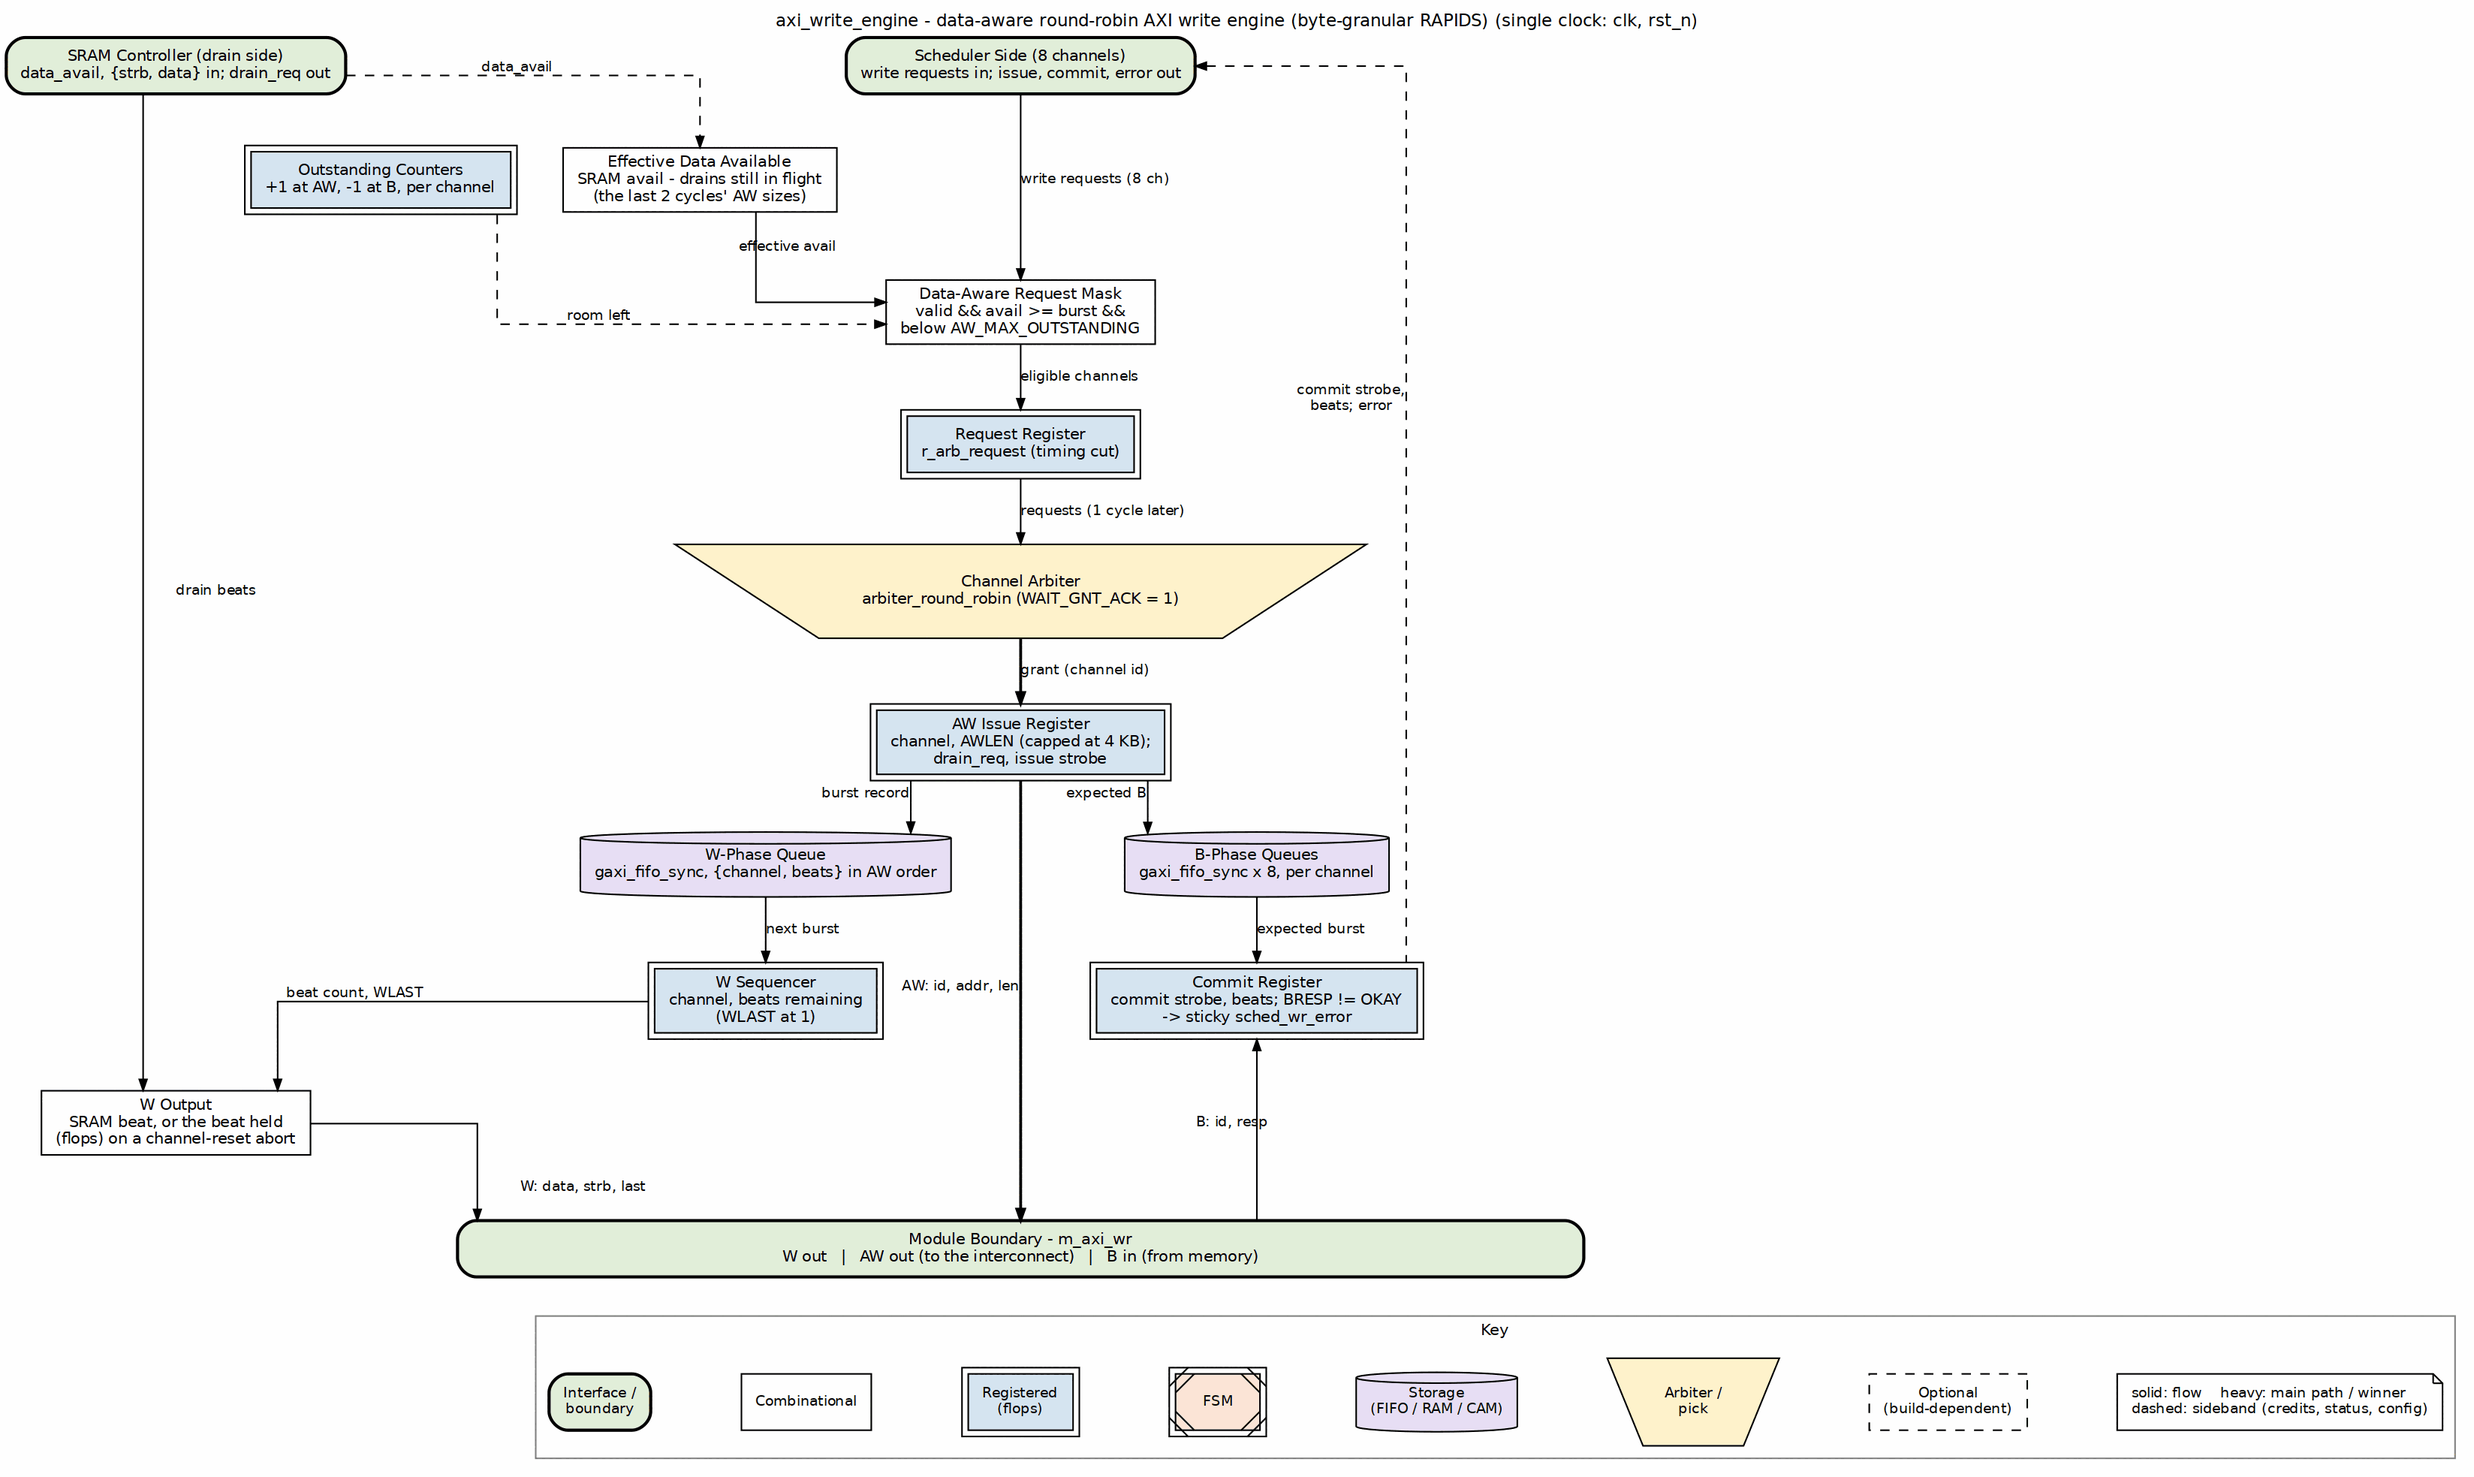
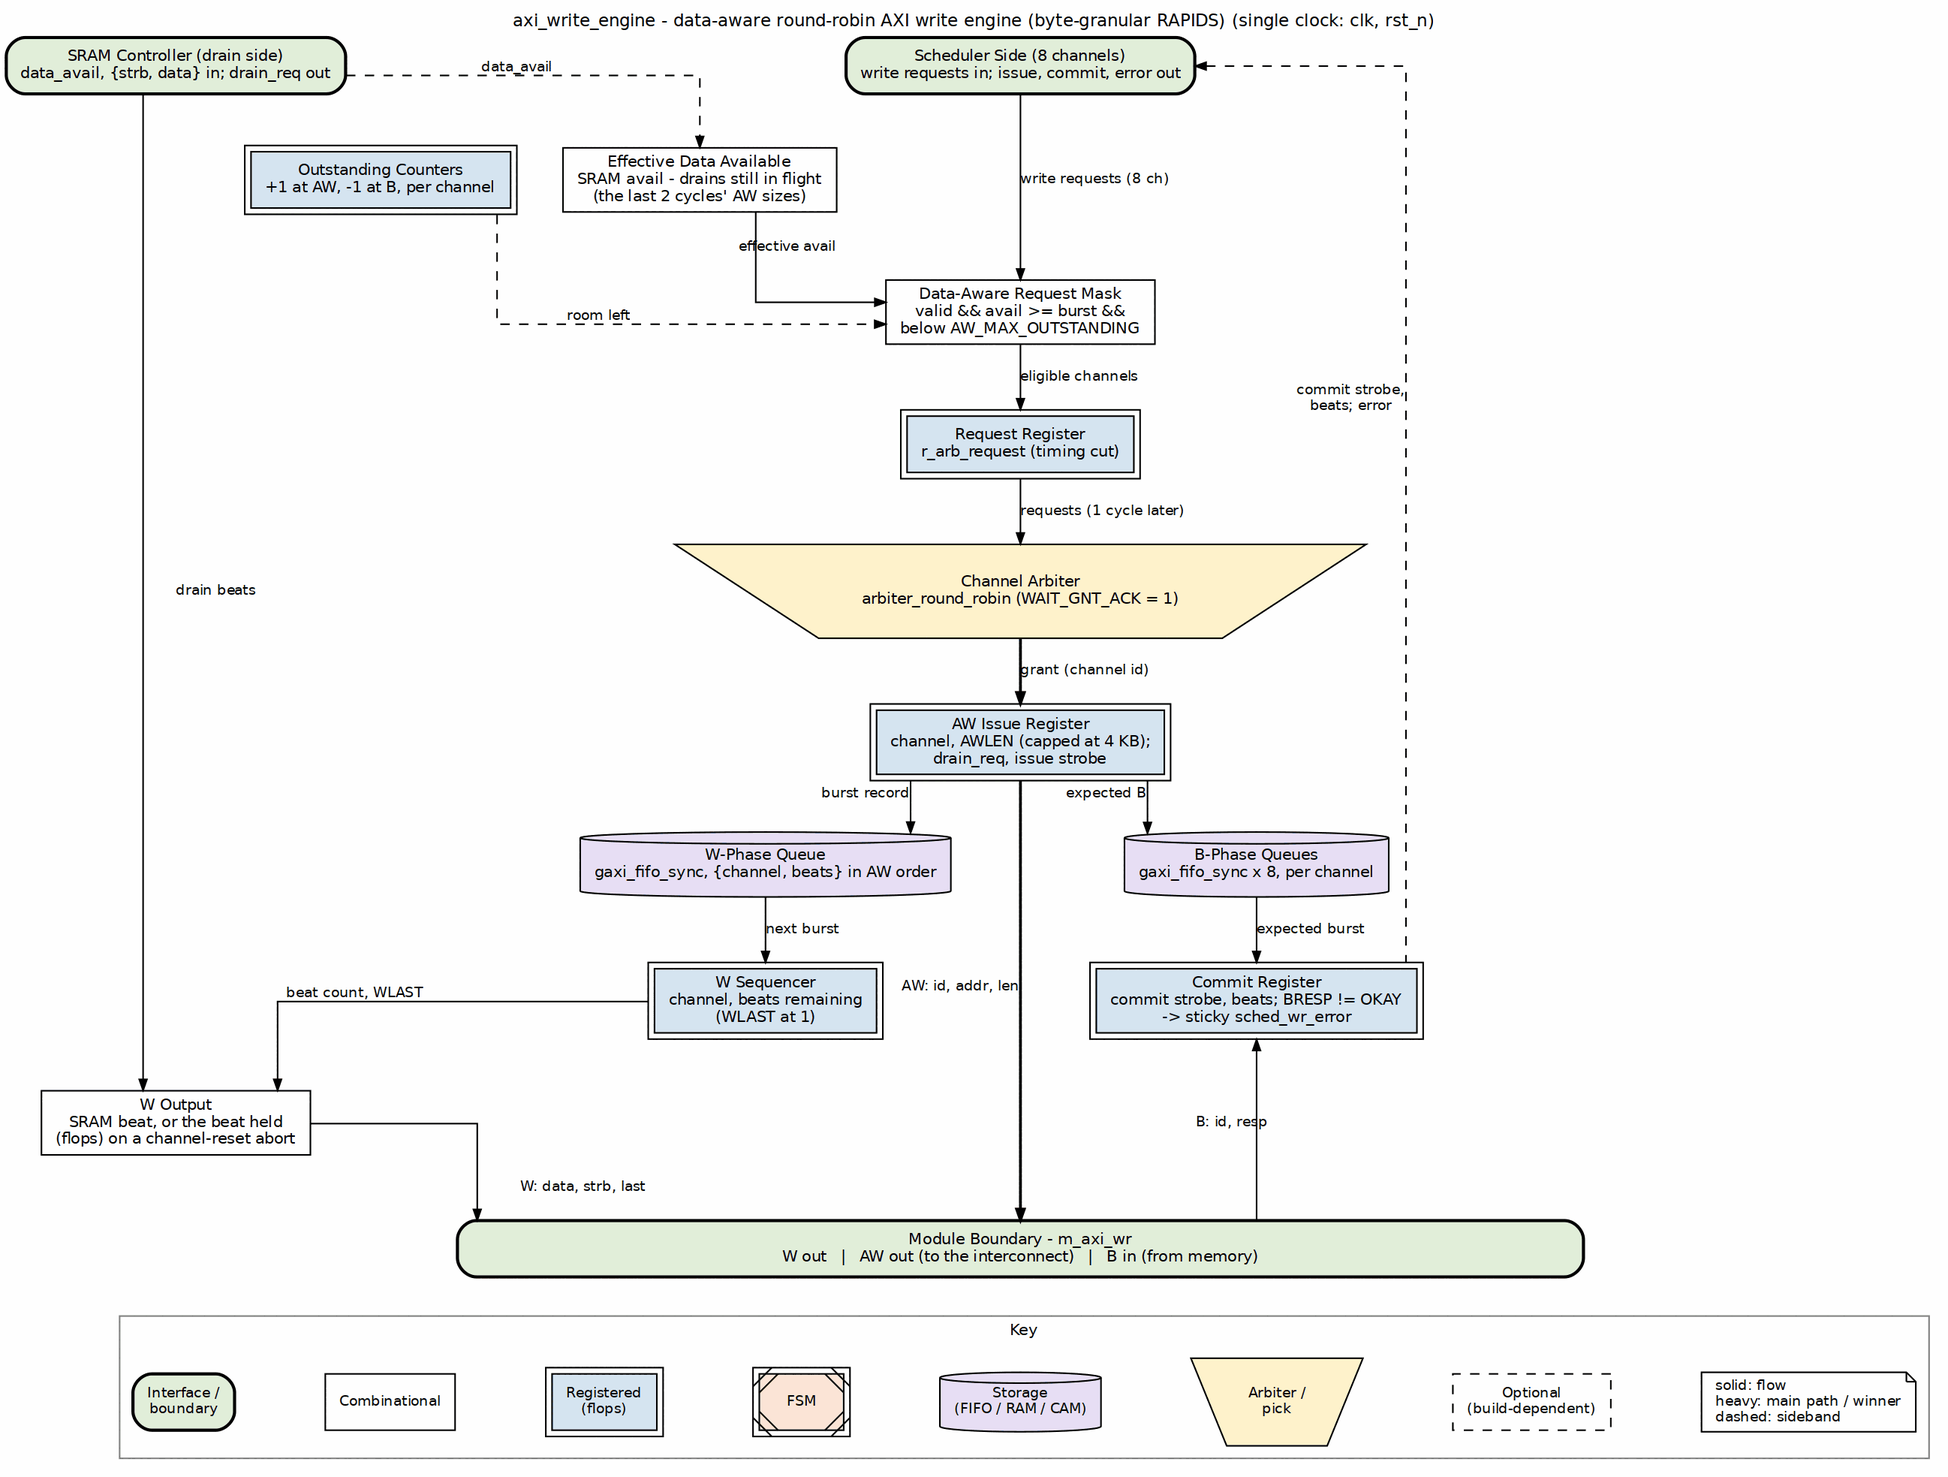
docs(handbook, rapids): center the diagram key under the drawing
Owner: keep the key centered at the bottom, no white space on one side.
The key row is anchored by one invisible weighted edge from the bar to its
middle sample (Storage), and the edge note is three short lines. Recipe in
the block-diagrams handbook; the write-engine case file carries it.

diff --git a/vault/handbook/authoring/block-diagrams.md b/vault/handbook/authoring/block-diagrams.md
@@ -170,6 +170,14 @@ existing set converts as each diagram is next touched.
   one sample node per class, plus a `shape=note` for the edge conventions
   (solid flow, heavy main path or winner, dashed sideband). Keep all seven
   samples even when a class is absent, so the key is identical everywhere.
+- **Center the key under the drawing** (owner, 2026-10-19), never hanging
+  off one side. Anchor it with one invisible edge from the bar to the key's
+  middle sample, `bar -> k_mem [style=invis, weight=10]` (Storage is the
+  middle by width), and keep the edge note to three short lines
+  (`solid: flow\l heavy: main path / winner\l dashed: sideband\l`). An
+  edge to the first sample, or a long one-line note, pushed the row a full
+  sample-width to one side. Copy the key block from the case file rather
+  than retyping it.
 - **Edges keep their meaning:** solid for flow, heavy (`penwidth=1.8`) for
   the main path or a pick's winner, dashed for sideband and feedback.
 - This supersedes the old palette rule ("color never carries meaning";
